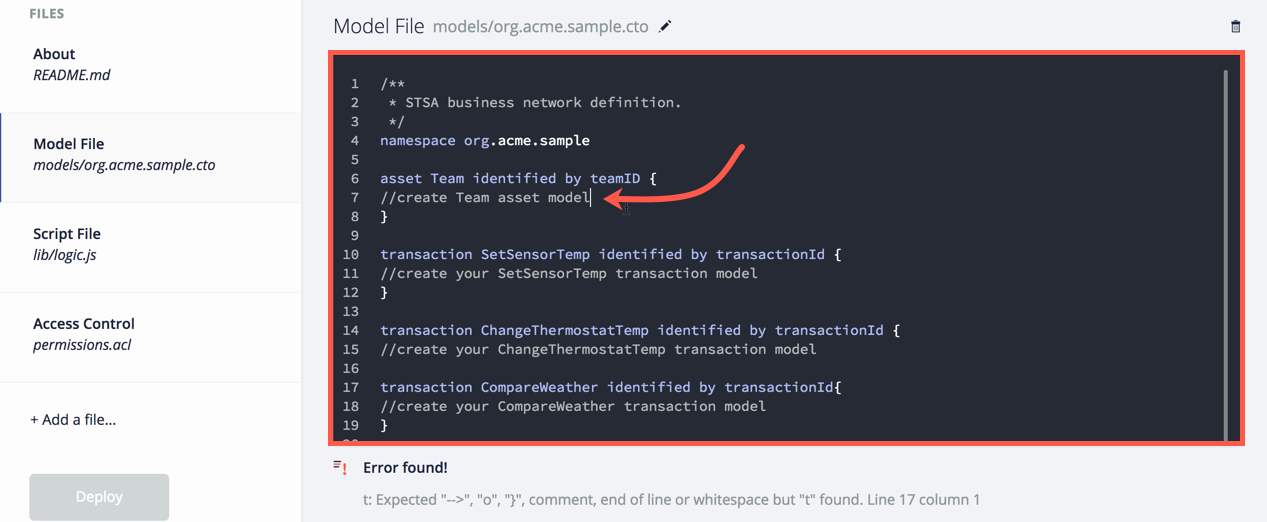
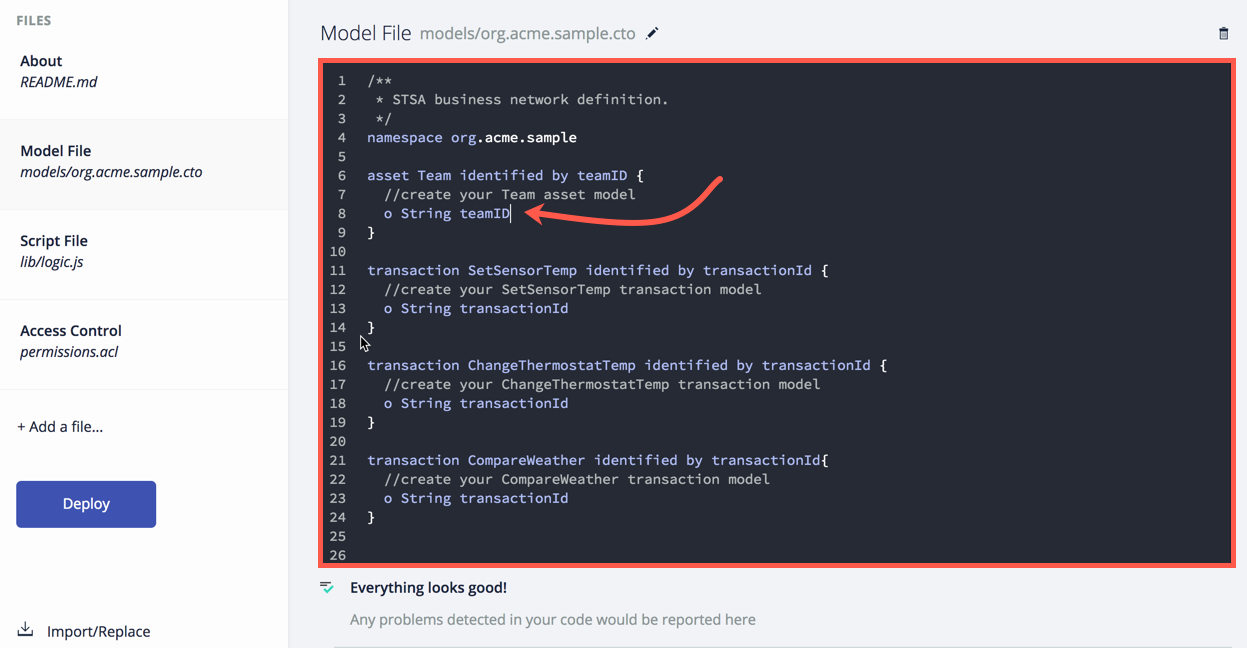
Updated README

diff --git a/README.md b/README.md
@@ -239,7 +239,7 @@ In this section of the lab you will be working with Hyperledger Composer to crea
 
     * Note: a small "o" is used as a bullet in the model.
 
-    * `o String teamID` — this will be the value that is assigned to your team.
+    * `o String teamID` — this will be the value that is assigned to your team. (already there!)
 
     * `o String teamName`— this could be anything! Come up with something clever!
 
@@ -261,7 +261,15 @@ In this section of the lab you will be working with Hyperledger Composer to crea
 
 
 
-14. 
+14. Now create your first trnsaction model for `SetSensorTemp`. Enter the following attributes:
+
+    * `o String transactionId` — This is created by the fabric. We will never populate this field.
+
+    * `--> asset Team` — This is transaction will need to put data to the `Team` asset. This passes a reference to the asset so we can work with the asset in the logic for the transaction.
+
+    * `o Double newSensorValue` — This is the variable that will be set by the temperature passed into the transaction from the Raspberry Pi Sens Hat.
+
+      ![Create SetSensorTemp model](images/Part1_Step14.png)
 
 
 
